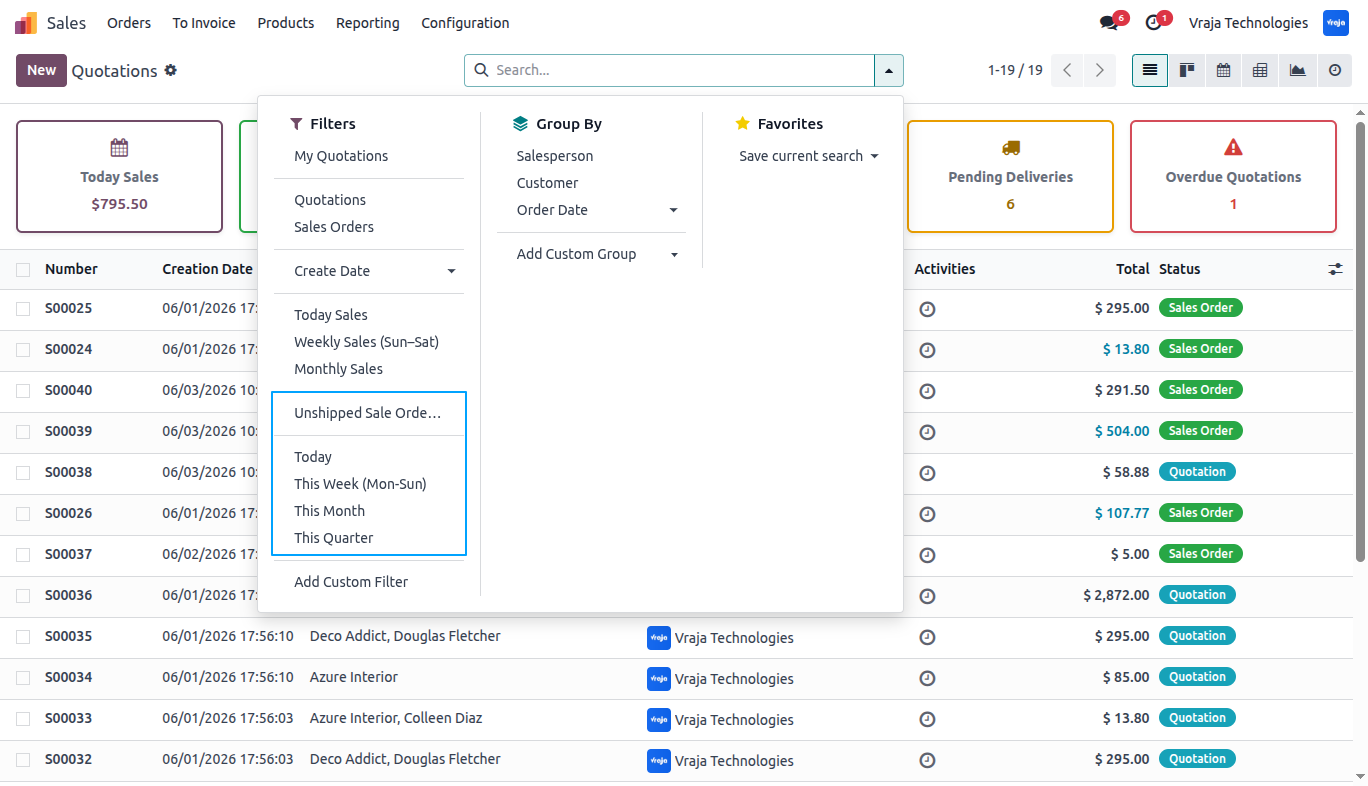
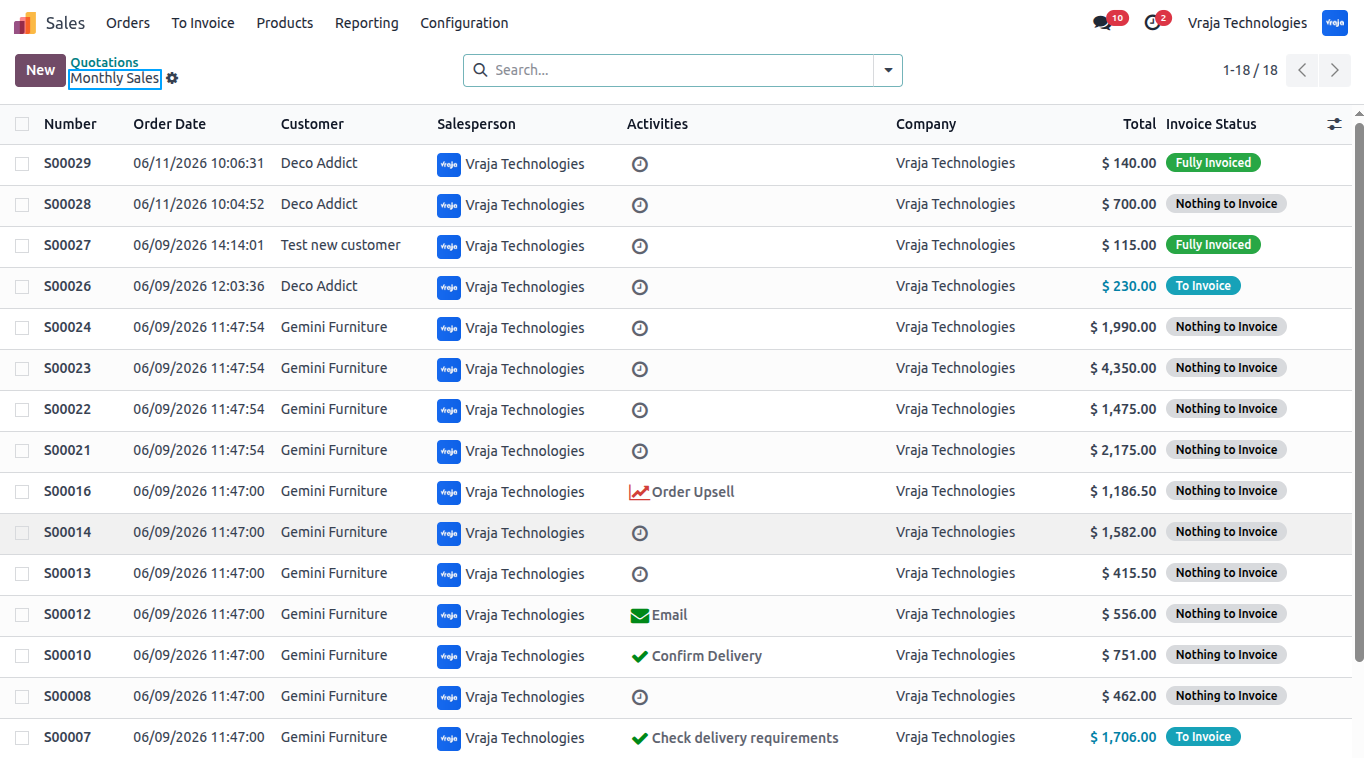
documentation update

diff --git a/advanced_sales_shipping_management_vts/static/description/index.html b/advanced_sales_shipping_management_vts/static/description/index.html
@@ -55,7 +55,7 @@
                     <div style="width:100%; box-sizing:border-box; margin:0 auto 10px auto;">
                         <p
                             style="color:#355486; font-size:16px; line-height:1.65; margin:0; box-sizing:border-box; text-align:justify; width:100%;">
-                            Streamline Odoo Sales and Delivery processes with enhanced shipping charge management and customer-specific discount functionality. Define Shipping Discounts, Insurance Charges, Fuel Surcharges, and Remote Area Surcharges to ensure precise delivery cost calculations. Automatically apply customer-level discounts on sales orders, record customer payments directly from sales orders. The module also features an interactive Sales Dashboard displaying Today, Weekly, Monthly Sales, Pending Orders, Pending Deliveries, and Overdue Quotations. Additionally, it provides ready-to-use Today, Weekly, Monthly, Quarterly and Unshipped sales order filters to simplify sales monitoring, analysis, and order management.
+                            Streamline Odoo Sales and Delivery processes with enhanced shipping charge management and customer-specific discount functionality. Define Shipping Discounts, Insurance Charges, Fuel Surcharges, and Remote Area Surcharges to ensure precise delivery cost calculations. Automatically apply customer-level discounts on sales orders, record customer payments directly from sales orders. The module also features an interactive Sales Dashboard displaying Today, Weekly, Monthly Sales, Pending Deliveries, Overdue Sale orders and New Customers This Month. Additionally, it provides ready-to-use Today, Weekly, Monthly, Quarterly and Unshipped sales order filters to simplify sales monitoring, analysis, and order management.
                         </p>
                     </div>
 
@@ -611,7 +611,7 @@
                                                     Sales Order Dashboard
                                                 </h4>
                                                 <h6>
-                                                    View Today Sales, Weekly Sales, Monthly Sales, Pending Orders, Pending Deliveries, and Overdue Quotations from a centralized dashboard.
+                                                    View Today Sales, Weekly Sales, Monthly Sales, Pending Deliveries, Overdue Sale Orders and New Customers This Month from a centralized dashboard.
                                                 </h6>
                                             </td>
                                         </tr>
@@ -760,7 +760,7 @@
                                     style="color:#123d73; font-size:clamp(13px, 3.4vw, 17px); line-height:1.35; font-weight:900; margin:0 0 14px; box-sizing:border-box;">
                                     <span
                                         style="background-color:#fff4e8; color:#d6863a; border-radius:999px; display:inline-block; font-size:12px; font-weight:900; padding:6px 11px; margin-right:8px; box-sizing:border-box;">08</span>
-                                    The dashboard displays Today Sales, Weekly Sales, Monthly Sales, Pending Orders, Pending Deliveries, and Overdue Quotations. This gives users a quick overview of sales performance and order status from a single screen.
+                                    The dashboard displays Today Sales, Weekly Sales, Monthly Sales, Pending Deliveries, Overdue Sale Orders and New Customers This Month. This gives users a quick overview of sales performance and order status from a single screen.
                                 </p>
                                 <img src="8.png" class="img img-fluid"
                                     style="border-radius:16px; box-shadow:0 14px 34px rgba(15,23,42,0.10); margin:0; box-sizing:border-box;">
@@ -772,7 +772,7 @@
                                     style="color:#123d73; font-size:clamp(13px, 3.4vw, 17px); line-height:1.35; font-weight:900; margin:0 0 14px; box-sizing:border-box;">
                                     <span
                                         style="background-color:#fff4e8; color:#d6863a; border-radius:999px; display:inline-block; font-size:12px; font-weight:900; padding:6px 11px; margin-right:8px; box-sizing:border-box;">09</span>
-                                    Users can view all pending sales orders making it easier to track open orders, review customer details, monitor order amounts, and follow up on pending sales activities.
+                                    Navigate to Sales → Configuration → Settings and configure the Pending Deliveries Period (Days) and Overdue Sales Orders Period (Days). These settings determine the number of recent days considered when calculating Pending Deliveries and Overdue Sales Orders in the Sales Dashboard
                                 </p>
                                 <img src="9.png" class="img img-fluid"
                                     style="border-radius:16px; box-shadow:0 14px 34px rgba(15,23,42,0.10); margin:0; box-sizing:border-box;">
@@ -784,9 +784,21 @@
                                     style="color:#123d73; font-size:clamp(13px, 3.4vw, 17px); line-height:1.35; font-weight:900; margin:0 0 14px; box-sizing:border-box;">
                                     <span
                                         style="background-color:#fff4e8; color:#d6863a; border-radius:999px; display:inline-block; font-size:12px; font-weight:900; padding:6px 11px; margin-right:8px; box-sizing:border-box;">10</span>
-                                    Additional sales order filters are available to help users quickly analyze and manage orders. Filter records by Today, This Week, This Month, This Quarter, and Unshipped Sale Orders to easily track sales performance and identify orders that still require delivery processing.
+                                    Users can view all monthly sales orders, helping them monitor sales performance, review customer transactions, analyze order values, and track business growth throughout the month.
                                 </p>
                                 <img src="10.png" class="img img-fluid"
+                                    style="border-radius:16px; box-shadow:0 14px 34px rgba(15,23,42,0.10); margin:0; box-sizing:border-box;">
+                            </div>
+
+                            <div
+                                style="background-color:#ffffff; border:1px solid #dfeaf7; border-radius:20px; padding:18px; margin-bottom:26px; box-shadow:0 12px 30px rgba(15,23,42,0.07); box-sizing:border-box;">
+                                <p
+                                    style="color:#123d73; font-size:clamp(13px, 3.4vw, 17px); line-height:1.35; font-weight:900; margin:0 0 14px; box-sizing:border-box;">
+                                    <span
+                                        style="background-color:#fff4e8; color:#d6863a; border-radius:999px; display:inline-block; font-size:12px; font-weight:900; padding:6px 11px; margin-right:8px; box-sizing:border-box;">11</span>
+                                    Additional sales order filters are available to help users quickly analyze and manage orders. Filter records by Today, This Week, This Month, This Quarter, and Unshipped Sale Orders to easily track sales performance and identify orders that still require delivery processing.
+                                </p>
+                                <img src="11.png" class="img img-fluid"
                                     style="border-radius:16px; box-shadow:0 14px 34px rgba(15,23,42,0.10); margin:0; box-sizing:border-box;">
                             </div>
 
